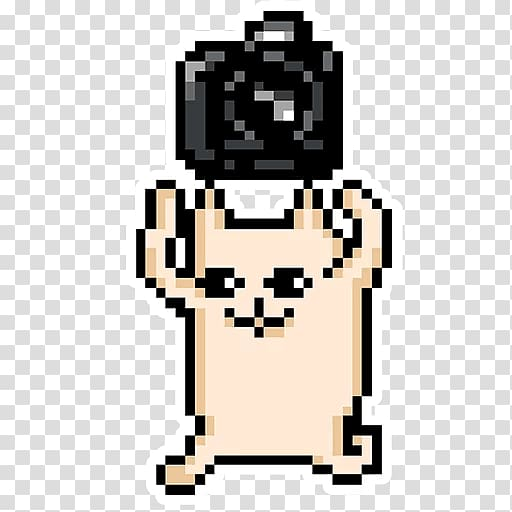
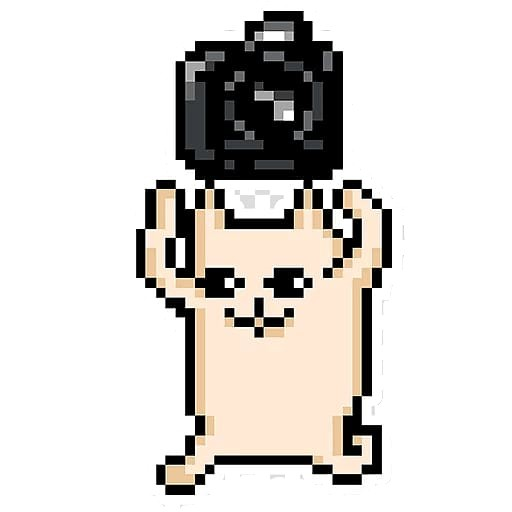
updating again

Changed region(s): [[0.0, 0.0, 1.0, 1.0]]

diff --git a/unit5/final/sketch.js b/unit5/final/sketch.js
@@ -6,7 +6,7 @@ let score = 0; // Player's score
 let DotImage; // Placeholder for the image
 
 function preload() {
-  DotImage = loadImage("Stalkercat.jpg"); // Load the image
+  DotImage = loadImage("CuteCat.png"); // Load the image
 }
 
 function setup() {
